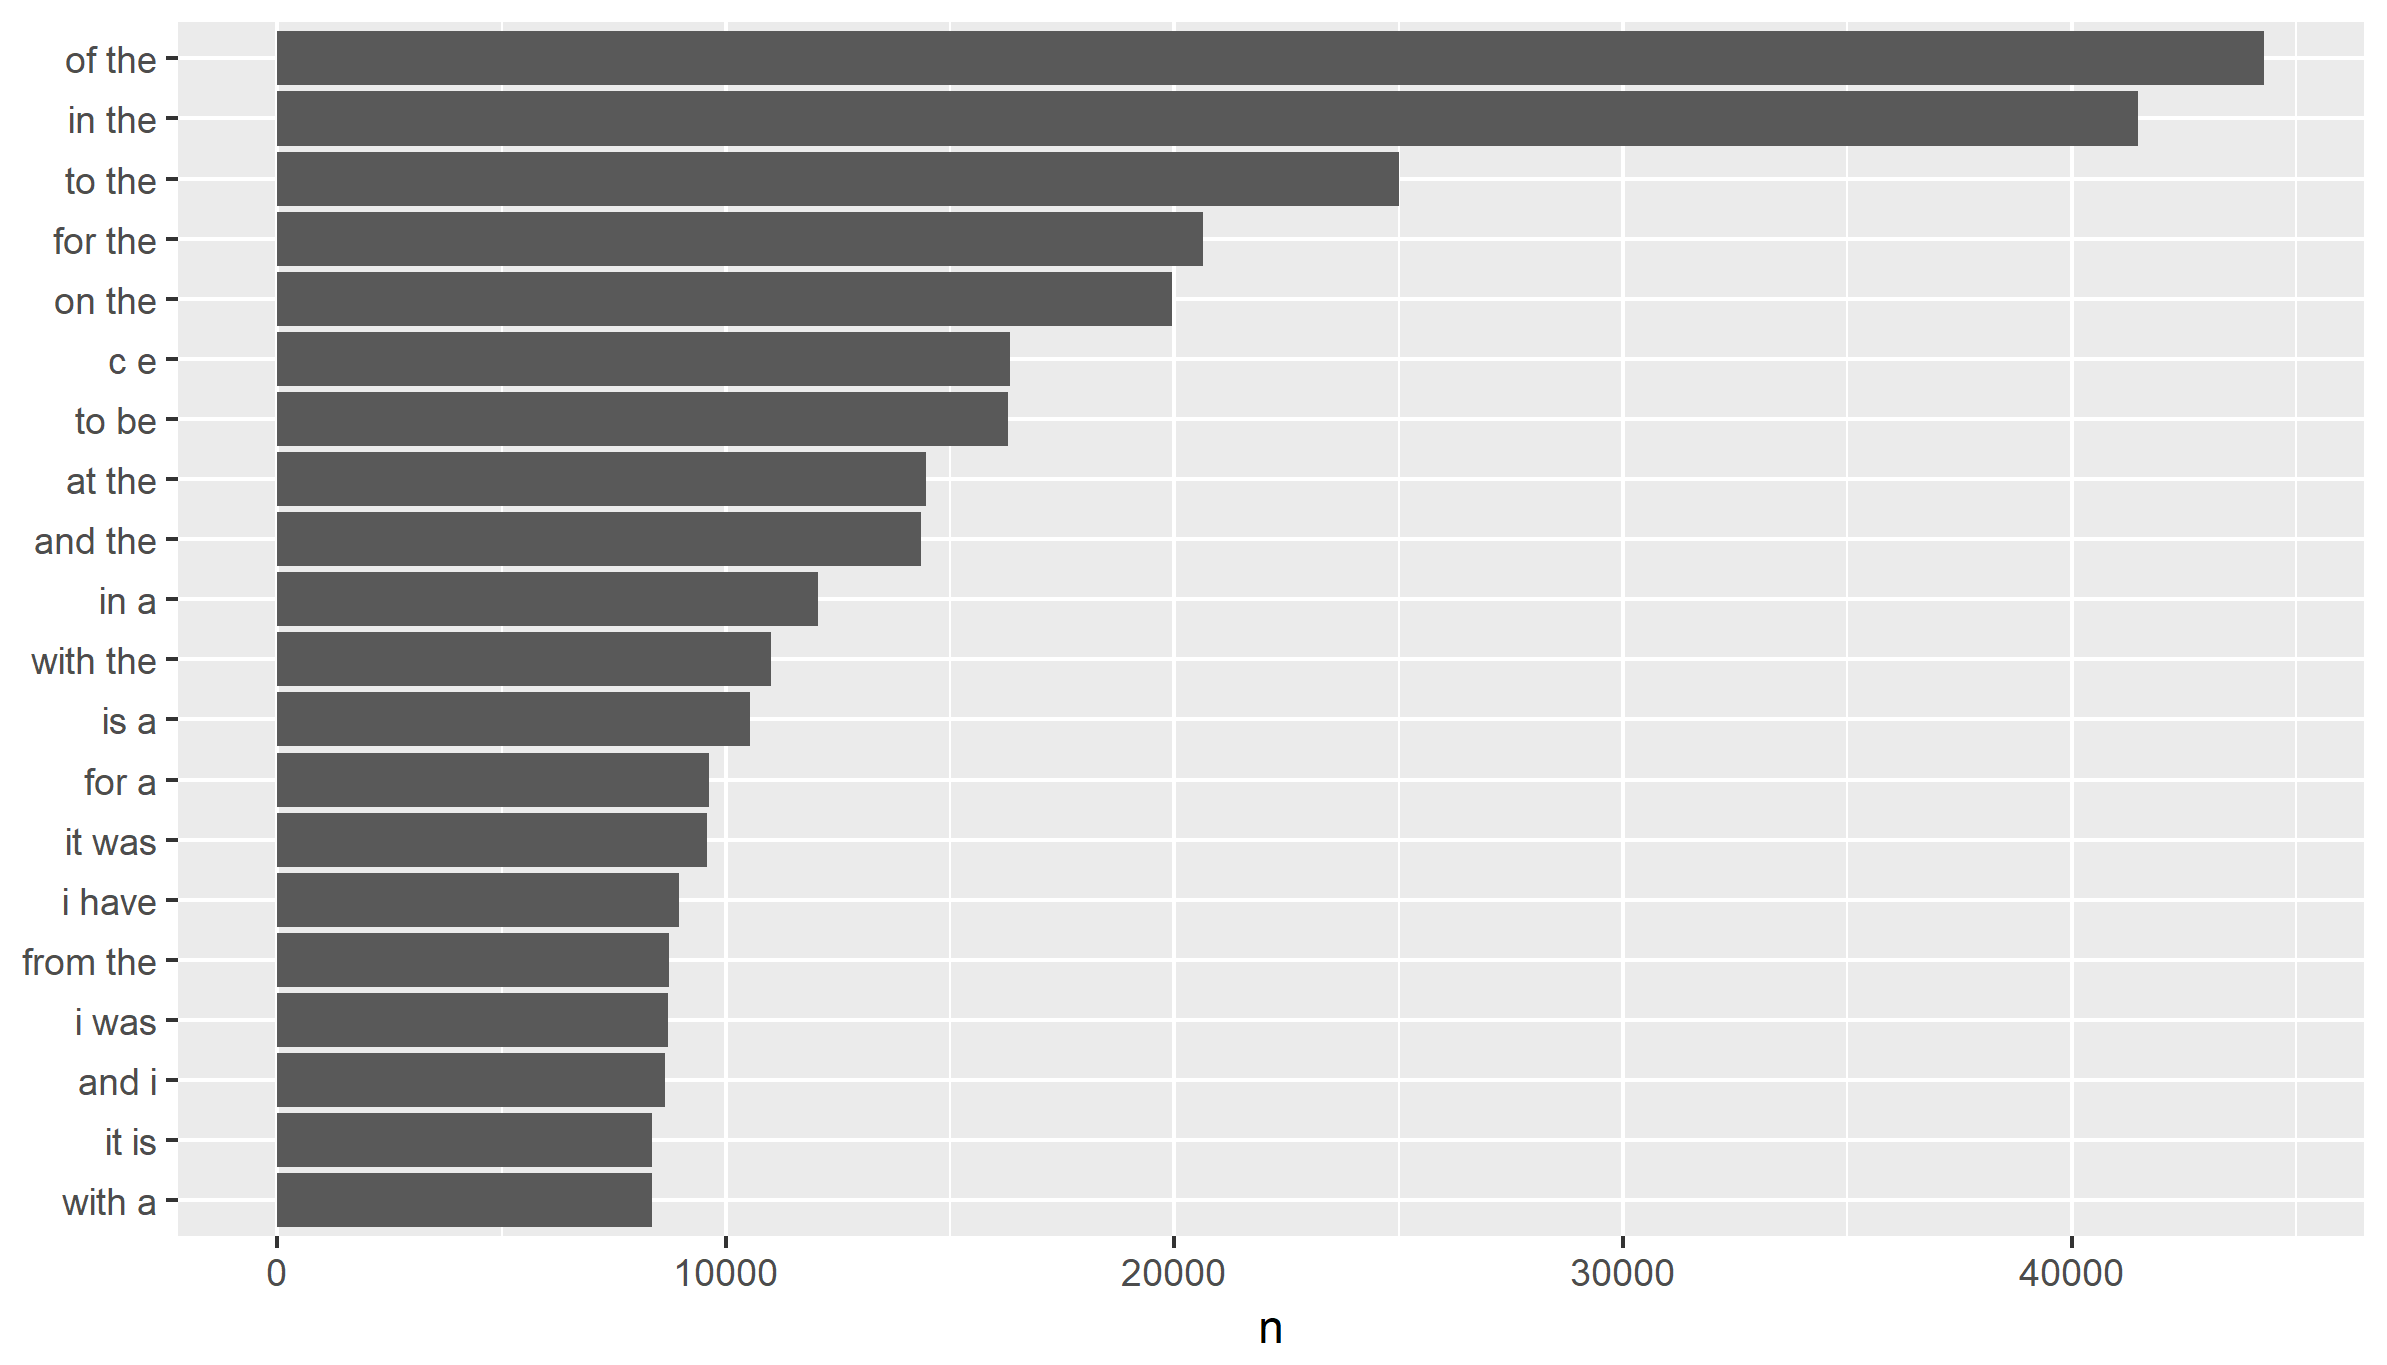
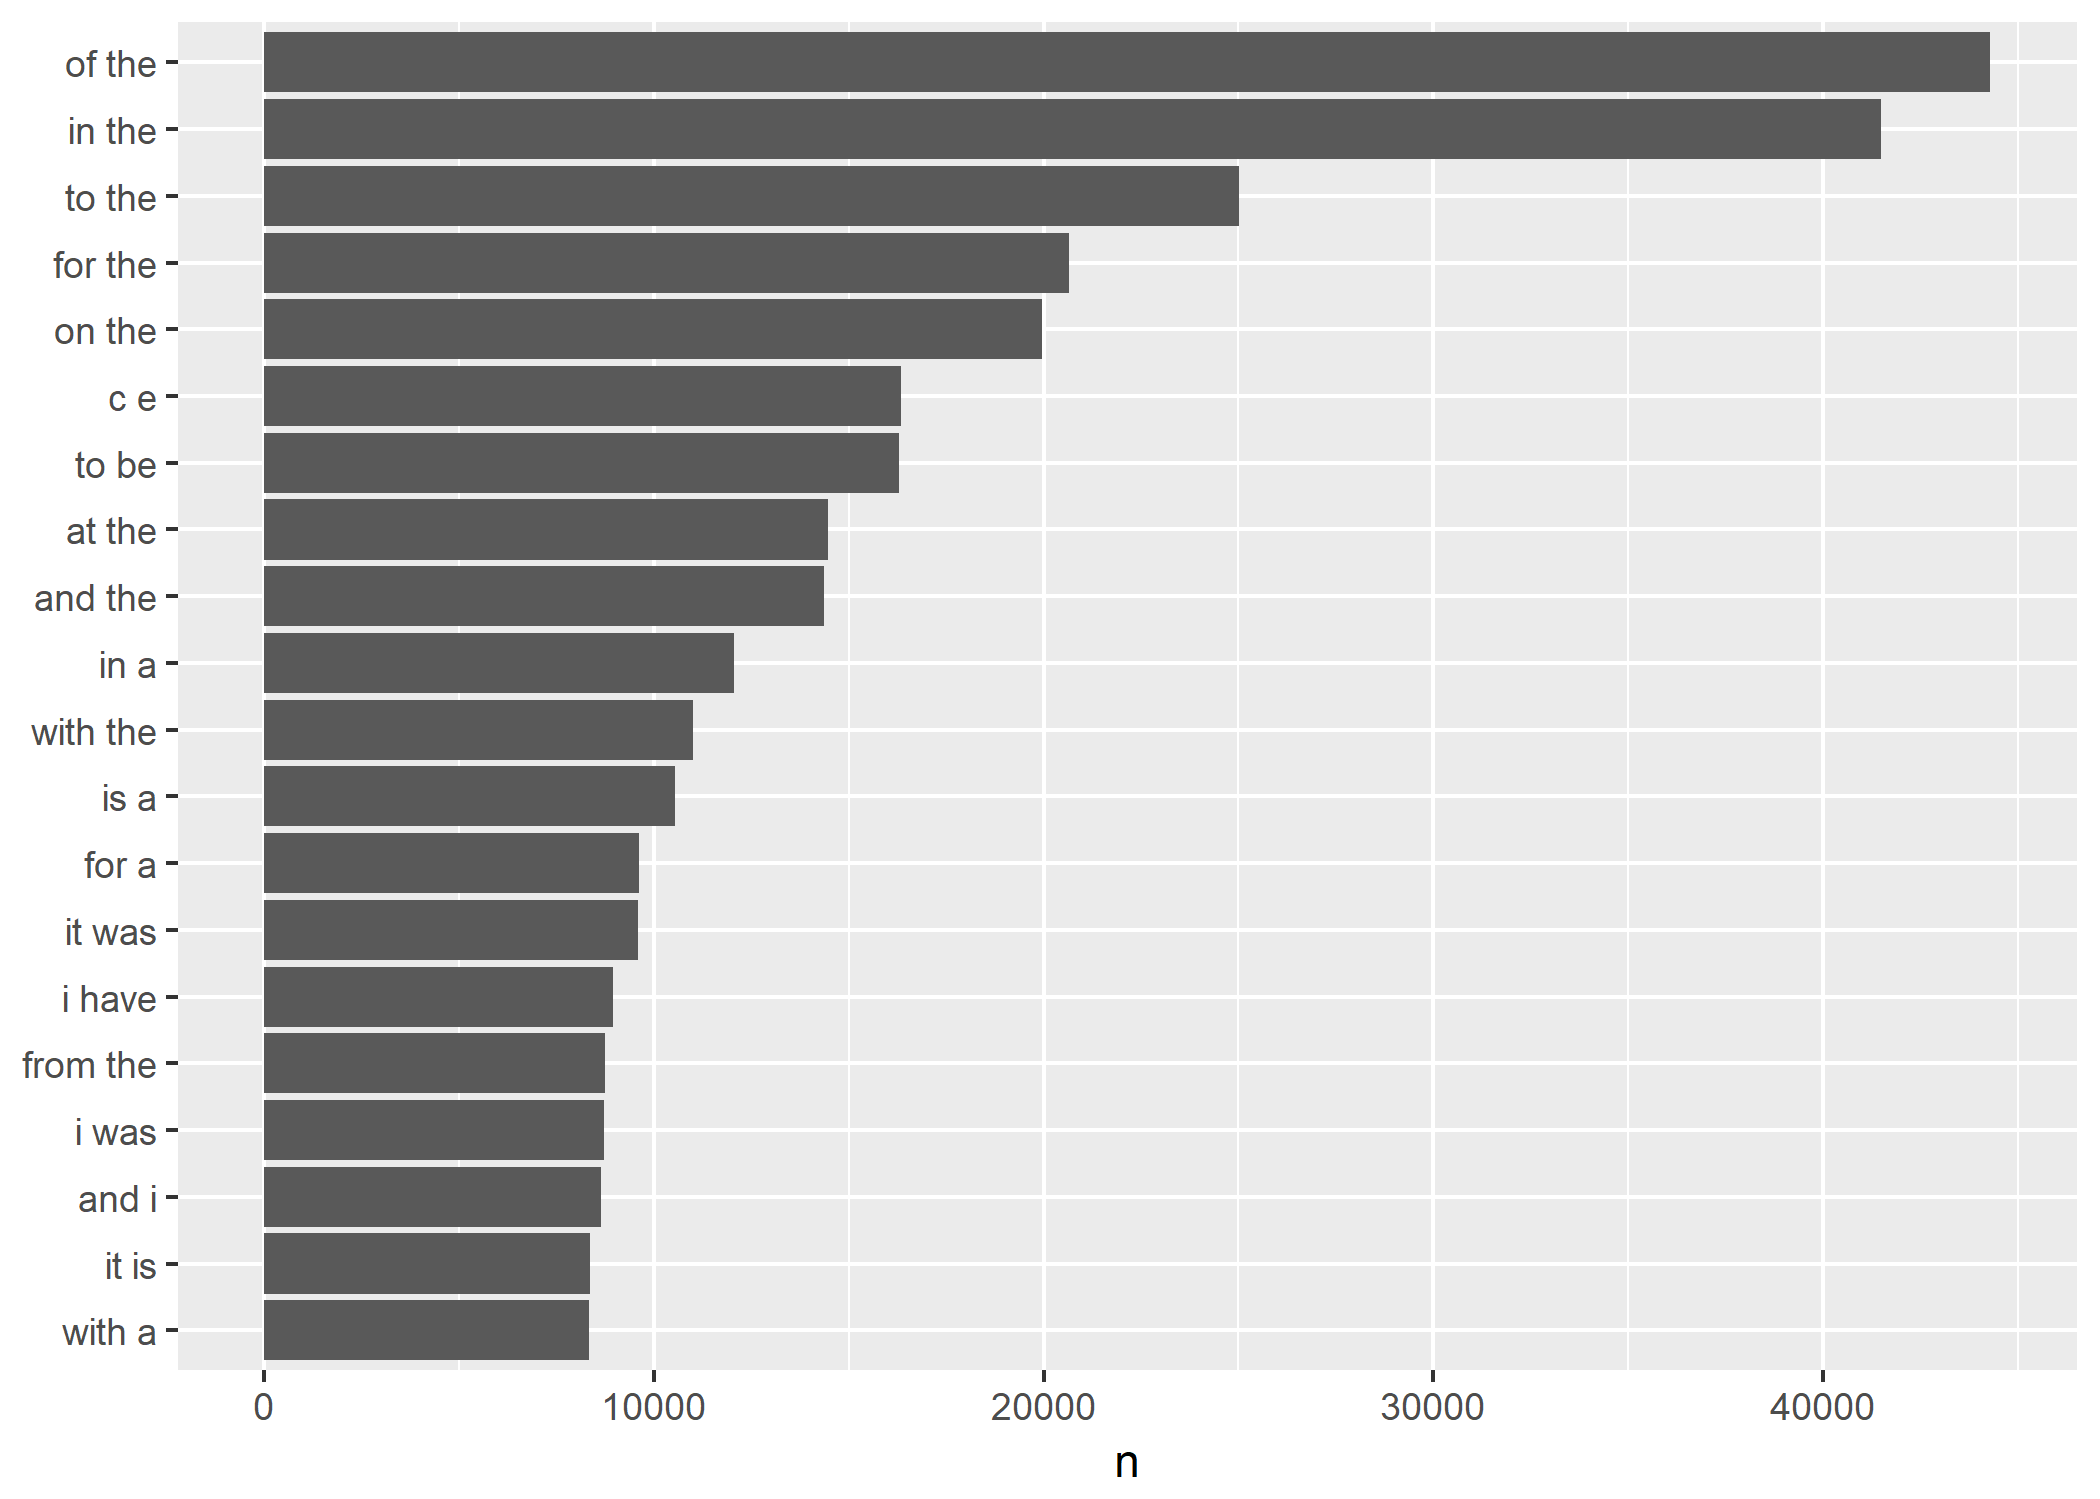
Driect repo creation into Shiny app data files and image files

diff --git a/04A_Task_Script.md b/04A_Task_Script.md
@@ -1,7 +1,7 @@
 Task 04A: Fast Ngram Files
 ================
 Mark Blackmore
-2017-11-15
+2017-11-19
 
 Load the Data
 -------------
@@ -35,7 +35,7 @@ Sample the data
 
 ``` r
 set.seed(1001)
-sample_pct <- 0.05
+sample_pct <- 0.10
 
 blogs_sample <- blogs %>%
   sample_n(., nrow(blogs)*sample_pct)
@@ -117,7 +117,7 @@ Bigrams
 ``` r
 bigram_cover <- bigram_repo %>%
   count(bigram) %>%  
-  filter(n > 1) %>%
+  filter(n > 10) %>%
   arrange(desc(n))  
 rm(list = c("bigram_repo"))
 ```
@@ -127,7 +127,7 @@ Trigrams
 ``` r
 trigram_cover <- trigram_repo %>%
   count(trigram) %>%  
-  filter(n > 1) %>%
+  filter(n > 10) %>%
   arrange(desc(n))  
 rm(list = c("trigram_repo"))
 ```
@@ -137,7 +137,7 @@ Quadgrams
 ``` r
 quadgram_cover <- quadgram_repo %>%
   count(quadgram) %>%  
-  filter(n > 1) %>%
+  filter(n > 10) %>%
   arrange(desc(n))  
 rm(list = c("quadgram_repo"))
 ```
@@ -146,27 +146,27 @@ What does the distribution on ngrams look like?
 -----------------------------------------------
 
 ``` r
-disty = data_frame(ngram = c(rep("bigrams",   nrow(bigram_cover)),
+disty <- data_frame(ngram = c(rep("bigrams",   nrow(bigram_cover)),
                              rep("trigrams",  nrow(trigram_cover)),
-                             rep("quadgrams", nrow(quadgram_cover))), 
+                             rep("quadgrams", nrow(quadgram_cover))),
                    number = c(bigram_cover$n, trigram_cover$n, quadgram_cover$n))
 disty
 ```
 
-    ## # A tibble: 815,038 x 2
+    ## # A tibble: 148,719 x 2
     ##      ngram number
     ##      <chr>  <int>
-    ##  1 bigrams  21934
-    ##  2 bigrams  20787
-    ##  3 bigrams  12556
-    ##  4 bigrams  10294
-    ##  5 bigrams   9776
-    ##  6 bigrams   8238
-    ##  7 bigrams   8073
-    ##  8 bigrams   7427
-    ##  9 bigrams   7119
-    ## 10 bigrams   6048
-    ## # ... with 815,028 more rows
+    ##  1 bigrams  44296
+    ##  2 bigrams  41480
+    ##  3 bigrams  25015
+    ##  4 bigrams  20646
+    ##  5 bigrams  19953
+    ##  6 bigrams  16338
+    ##  7 bigrams  16290
+    ##  8 bigrams  14462
+    ##  9 bigrams  14357
+    ## 10 bigrams  12060
+    ## # ... with 148,709 more rows
 
 ``` r
 disty$ngram <- as.factor(disty$ngram)
@@ -174,6 +174,66 @@ ggplot(data = disty, aes(y = number, x = ngram)) + geom_boxplot() + scale_y_log1
 ```
 
 ![](04A_Task_Script_files/figure-markdown_github-ascii_identifiers/DistyPlot-1.png)
+
+``` r
+ggsave("./ngram_match/www/ngrams.png")
+```
+
+    ## Saving 7 x 5 in image
+
+``` r
+quadgram_cover %>%
+  top_n(20, n) %>%
+  mutate(quadgram = reorder(quadgram, n)) %>%
+  ggplot(aes(quadgram, n)) +
+  geom_col() +
+  xlab(NULL) +
+  coord_flip()
+```
+
+![](04A_Task_Script_files/figure-markdown_github-ascii_identifiers/DistyPlot-2.png)
+
+``` r
+ggsave("./ngram_match/www/quadgrams.png")
+```
+
+    ## Saving 7 x 5 in image
+
+``` r
+trigram_cover %>%
+  top_n(20, n) %>%
+  mutate(trigram = reorder(trigram, n)) %>%
+  ggplot(aes(trigram, n)) +
+  geom_col() +
+  xlab(NULL) +
+  coord_flip()
+```
+
+![](04A_Task_Script_files/figure-markdown_github-ascii_identifiers/DistyPlot-3.png)
+
+``` r
+ggsave("./ngram_match/www/trigrams.png")
+```
+
+    ## Saving 7 x 5 in image
+
+``` r
+bigram_cover %>%
+  top_n(20, n) %>%
+  mutate(bigram = reorder(bigram, n)) %>%
+  ggplot(aes(bigram, n)) +
+  geom_col() +
+  xlab(NULL) +
+  coord_flip()
+```
+
+![](04A_Task_Script_files/figure-markdown_github-ascii_identifiers/DistyPlot-4.png)
+
+``` r
+ggsave("./ngram_match/www/bigrams.png")
+```
+
+    ## Saving 7 x 5 in image
 
 Separate words
 --------------
@@ -184,20 +244,20 @@ bi_words <- bigram_cover %>%
 bi_words
 ```
 
-    ## # A tibble: 334,906 x 3
+    ## # A tibble: 87,239 x 3
     ##    word1 word2     n
     ##  * <chr> <chr> <int>
-    ##  1    of   the 21934
-    ##  2    in   the 20787
-    ##  3    to   the 12556
-    ##  4   for   the 10294
-    ##  5    on   the  9776
-    ##  6     c     e  8238
-    ##  7    to    be  8073
-    ##  8    at   the  7427
-    ##  9   and   the  7119
-    ## 10    in     a  6048
-    ## # ... with 334,896 more rows
+    ##  1    of   the 44296
+    ##  2    in   the 41480
+    ##  3    to   the 25015
+    ##  4   for   the 20646
+    ##  5    on   the 19953
+    ##  6     c     e 16338
+    ##  7    to    be 16290
+    ##  8    at   the 14462
+    ##  9   and   the 14357
+    ## 10    in     a 12060
+    ## # ... with 87,229 more rows
 
 ``` r
 tri_words <- trigram_cover %>%
@@ -205,20 +265,20 @@ tri_words <- trigram_cover %>%
 tri_words
 ```
 
-    ## # A tibble: 343,851 x 4
+    ## # A tibble: 51,539 x 4
     ##     word1 word2 word3     n
     ##  *  <chr> <chr> <chr> <int>
-    ##  1    one    of   the  1734
-    ##  2      a   lot    of  1471
-    ##  3 thanks   for   the  1247
-    ##  4     to    be     a   907
-    ##  5  going    to    be   855
-    ##  6    the    of   the   841
-    ##  7    the   end    of   782
-    ##  8      i  want    to   776
-    ##  9    out    of   the   742
-    ## 10     it   was     a   739
-    ## # ... with 343,841 more rows
+    ##  1    one    of   the  3543
+    ##  2      a   lot    of  2929
+    ##  3 thanks   for   the  2501
+    ##  4     to    be     a  1888
+    ##  5  going    to    be  1825
+    ##  6    the    of   the  1814
+    ##  7      i  want    to  1629
+    ##  8    the   end    of  1522
+    ##  9    out    of   the  1520
+    ## 10     it   was     a  1511
+    ## # ... with 51,529 more rows
 
 ``` r
 quad_words <- quadgram_cover %>%
@@ -226,45 +286,27 @@ quad_words <- quadgram_cover %>%
 quad_words
 ```
 
-    ## # A tibble: 136,281 x 5
-    ##     word1 word2 word3 word4     n
-    ##  *  <chr> <chr> <chr> <chr> <int>
-    ##  1    the   end    of   the   434
-    ##  2     at   the   end    of   356
-    ##  3    the  rest    of   the   339
-    ##  4    for   the first  time   295
-    ##  5     at   the  same  time   272
-    ##  6     is   one    of   the   248
-    ##  7     is going    to    be   224
-    ##  8    one    of   the  most   216
-    ##  9   when    it comes    to   184
-    ## 10 thanks   for   the    rt   182
-    ## # ... with 136,271 more rows
+    ## # A tibble: 9,941 x 5
+    ##    word1 word2 word3 word4     n
+    ##  * <chr> <chr> <chr> <chr> <int>
+    ##  1   the   end    of   the   806
+    ##  2    at   the   end    of   656
+    ##  3   the  rest    of   the   651
+    ##  4   for   the first  time   613
+    ##  5    at   the  same  time   506
+    ##  6    is going    to    be   482
+    ##  7    is   one    of   the   446
+    ##  8   one    of   the  most   435
+    ##  9  when    it comes    to   419
+    ## 10 going    to    be     a   376
+    ## # ... with 9,931 more rows
 
-Save separated words for prediction
-
-``` r
-# saveRDS(bi_words, "./clean_repos/bi_words_fast.rds")
-# saveRDS(tri_words, "./clean_repos/tri_words_fast.rds")
-# saveRDS(quad_words, "./clean_repos/quad_words_fast.rds")
-```
-
-Clear workspace, time load
+Save data for the Shiny App
 
 ``` r
-rm(list= ls())
-
-go <- Sys.time()
-library(tidyverse)
-library(stringr)
-bi_words <- readRDS("./clean_repos/bi_words_fast.rds")
-tri_words  <- readRDS("./clean_repos/tri_words_fast.rds")
-quad_words <- readRDS("./clean_repos/quad_words_fast.rds")
-
-stop <- Sys.time()
-(how_long <- stop - go)
+saveRDS(bi_words, "./ngram_match/app_data/bi_words_fast.rds")
+saveRDS(tri_words, "./ngram_match/app_data/tri_words_fast.rds")
+saveRDS(quad_words,"./ngram_match/app_data/quad_words_fast.rds")
 ```
-
-    ## Time difference of 4.827095 secs
 
 end

diff --git a/ngram_match/app.md b/ngram_match/app.md
@@ -1,7 +1,7 @@
 Task 06: Data Product
 ================
 Mark Blackmore
-2017-11-18
+2017-11-19
 
 Shiny App
 ---------
@@ -34,24 +34,39 @@ ui <- fluidPage(
    # Sidebar with a slider input for number of bins 
    sidebarLayout(
       sidebarPanel(
-        h3("Instructions"), 
+        h2("Instructions:"), 
         h5("1. Enter a word or words in the text box."),
-        h5("2. The prediction prints below it in blue."),
+        h5("2. The predicted next word prints below it in blue."),
         h5("3. No need to hit enter of submit."),
-        h5("4. A question mark means no prediction, typically do to input mis-spelling"),
+        h5("4. A question mark means no prediction, typically due to mis-spelling"),
+        h5("5. Additional tabs show plots of the top ngrams in the dataset"),
         br(),
         a("Source Code", href = "https://github.com/mark-blackmore/JHU-Data-Science-Capstone/tree/master/ngram_match")
       ),
       
       # Show a plot of the generated distribution
       mainPanel(
-        textInput("user_input", h3("Your Input:"), 
-                  value = "Your words"),
-        h3("Predicted Next Word:"),
-        h4(em(span(textOutput("ngram_output"), style="color:blue")))
+        tabsetPanel(
+          tabPanel("predict",
+            textInput("user_input", h3("Your Input:"), 
+                    value = "Your words"),
+            h3("Predicted Next Word:"),
+            h4(em(span(textOutput("ngram_output"), style="color:blue")))),
         
-        )   
-   )
+          tabPanel("top quadgrams",
+            br(),
+            img(src = "quadgrams.png", height = 500, width = 700)),
+        
+          tabPanel("top trigrams",
+            br(),       
+            img(src = "trigrams.png", height = 500, width = 700)),
+      
+          tabPanel("top bigrams",
+            br(),
+            img(src = "bigrams.png", height = 500, width = 700))
+          )   
+    )
+  )
 )
 ```
 
